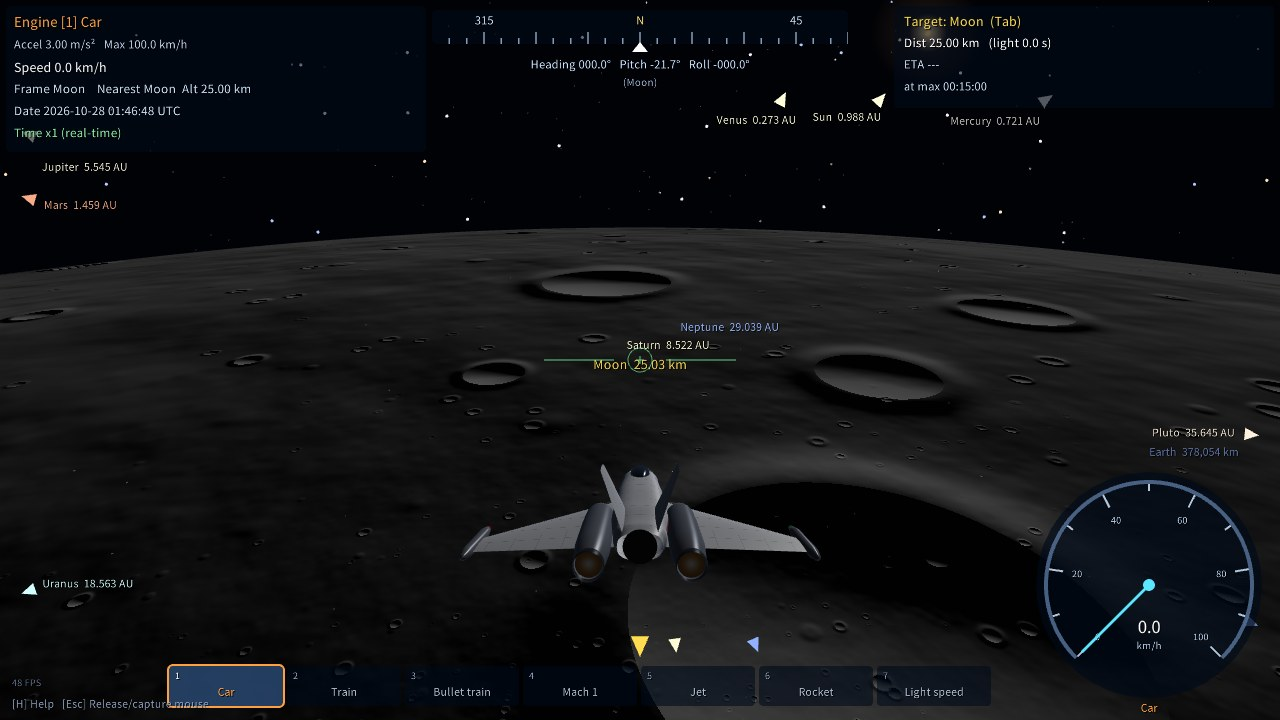
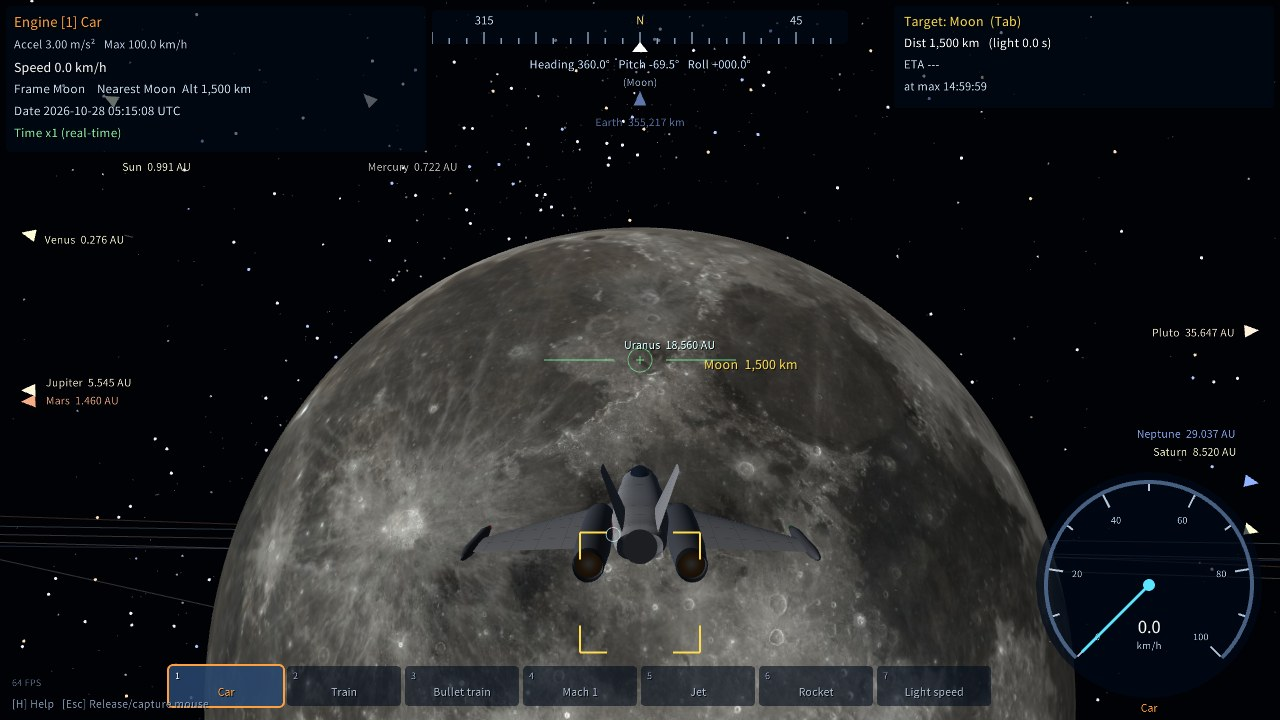
Place moons at their real positions; refresh screenshots
- Orbit planes from JPL mean elements; in-plane positions fitted to JPL
  Horizons for 1980-2070 (tools/fit_moon_orbits.py), incl. Mimas libration
- All moons rotate synchronously, facing their planet; fix Iapetus's
  dark leading hemisphere
- Brighter copper glow during lunar eclipses
- New README screenshots: Moon, eclipses, Saturn ring shadow

diff --git a/tools/fit_moon_orbits.py b/tools/fit_moon_orbits.py
@@ -1,0 +1,139 @@
+#!/usr/bin/env python3
+"""衛星の公転位相を JPL Horizons に合わせる（src/solar_data.h の JPL 表の phase / P を出力する）。
+
+軌道面は JPL の平均軌道要素（https://ssd.jpl.nasa.gov/sats/elem/ の Laplace 面・傾斜角・昇交点）を使い、
+面内の角度 u(t) = u0 + 360 t / P + A sin(2π t / T) + B cos(2π t / T)（t: J2000 からの日数）を
+1980〜2070 年の Horizons の位置に最小二乗で合わせる。
+  - u0: J2000 での角度, P: 平均の公転周期（日）
+  - A, B: ミマスとテティスの共鳴による秤動（周期 T = 70.56 年。ミマスで振幅 約 44°）
+円軌道の近似なので、離心率や軌道面の歳差による数度以内のずれは残る。
+
+使い方: python3 tools/fit_moon_orbits.py
+"""
+import json
+import math
+import re
+import urllib.parse
+import urllib.request
+
+D = math.radians
+UA = "SolarSystemVoyager-orbit-fit/1.0 (https://github.com/hubstacksea/Solar-System-Simulator)"
+
+# 名前, Horizons ID, 母天体 ID, 傾斜角, 昇交点, 基準面の極 RA/Dec（None: 母天体の赤道面）, 周期の目安（日）
+MOONS = [
+    ("Phobos", 401, 499, 1.1, 169.2, (317.7, 52.9), 0.31891),
+    ("Deimos", 402, 499, 1.8, 54.3, (316.6, 53.5), 1.26244),
+    ("Io", 501, 599, 0.0, 0.0, (268.1, 64.5), 1.769138),
+    ("Europa", 502, 599, 0.5, 184.0, (268.1, 64.5), 3.551181),
+    ("Ganymede", 503, 599, 0.2, 58.5, (268.2, 64.6), 7.154553),
+    ("Callisto", 504, 599, 0.3, 309.1, (268.7, 64.8), 16.689018),
+    ("Mimas", 601, 699, 1.6, 66.2, (40.6, 83.5), 0.942422),
+    ("Enceladus", 602, 699, 0.0, 0.0, (40.6, 83.5), 1.370218),
+    ("Tethys", 603, 699, 1.1, 273.0, (40.6, 83.5), 1.887802),
+    ("Dione", 604, 699, 0.0, 0.0, (40.6, 83.5), 2.736915),
+    ("Rhea", 605, 699, 0.3, 133.7, (40.6, 83.5), 4.517503),
+    ("Titan", 606, 699, 0.3, 78.6, (36.4, 84.0), 15.945),
+    ("Iapetus", 608, 699, 7.6, 86.5, (288.7, 78.9), 79.3215),
+    # 天王星は逆行自転なので、衛星の公転の向きに合わせて IAU の北極と反対側の極を基準にする
+    ("Miranda", 705, 799, 4.4, 100.9, (77.31, 15.18), 1.413479),
+    ("Ariel", 701, 799, 0.0, 0.0, (77.31, 15.18), 2.520379),
+    ("Umbriel", 702, 799, 0.1, 174.8, (77.31, 15.18), 4.144177),
+    ("Titania", 703, 799, 0.1, 29.5, (77.31, 15.18), 8.705872),
+    ("Oberon", 704, 799, 0.1, 76.8, (77.31, 15.18), 13.463239),
+    ("Triton", 801, 899, 157.3, 177.7, None, 5.876854),
+    ("Charon", 901, 999, 0.0, 0.0, None, 6.387230),
+]
+# 母天体の自転軸（solar_data.h と同じ IAU の値）
+PLANET_POLE = {899: (299.36, 43.46), 999: (132.99, -6.16)}
+LIBRATION = {"Mimas", "Tethys"}
+T_LIB = 70.56 * 365.25
+
+J2000 = 2451545.0
+SAMPLES = [2444239.5 + k * 1150.0 for k in range(29)]   # 1980〜2070 年
+
+
+def equ(ra, dec):
+    return (math.cos(D(dec)) * math.cos(D(ra)), math.cos(D(dec)) * math.sin(D(ra)), math.sin(D(dec)))
+
+
+def cross(a, b):
+    return (a[1] * b[2] - a[2] * b[1], a[2] * b[0] - a[0] * b[2], a[0] * b[1] - a[1] * b[0])
+
+
+def norm(a):
+    l = math.sqrt(sum(x * x for x in a))
+    return tuple(x / l for x in a)
+
+
+def lin(*terms):
+    return tuple(sum(k * v[i] for k, v in terms) for i in range(3))
+
+
+def dot(a, b):
+    return sum(x * y for x, y in zip(a, b))
+
+
+def basis(m):
+    """solar_data.h / main.cpp と同じ軌道面の基底 (oN, oQ)。ICRF 赤道座標"""
+    _, _, parent, inc, node, pole, _ = m
+    ref = equ(*(pole if pole else PLANET_POLE[parent]))
+    e1 = norm(cross((0, 0, 1), ref))
+    e2 = cross(ref, e1)
+    n = lin((math.cos(D(node)), e1), (math.sin(D(node)), e2))
+    q = lin((math.cos(D(inc)), cross(ref, n)), (math.sin(D(inc)), ref))
+    return n, q
+
+
+def horizons(code, center, jds):
+    q = urllib.parse.urlencode({
+        "format": "json", "COMMAND": "'%d'" % code, "CENTER": "'500@%d'" % center, "EPHEM_TYPE": "VECTORS",
+        "TLIST": " ".join("'%s'" % j for j in jds), "REF_PLANE": "FRAME", "REF_SYSTEM": "ICRF",
+        "OUT_UNITS": "KM-S", "VEC_TABLE": "1", "CSV_FORMAT": "YES", "OBJ_DATA": "NO"})
+    req = urllib.request.Request("https://ssd.jpl.nasa.gov/api/horizons.api?" + q, headers={"User-Agent": UA})
+    res = json.load(urllib.request.urlopen(req, timeout=60))["result"]
+    body = re.search(r"\$\$SOE\s*(.*?)\$\$EOE", res, re.S).group(1)
+    out = []
+    for line in body.strip().splitlines():
+        f = [x.strip() for x in line.split(",")]
+        out.append((float(f[2]), float(f[3]), float(f[4])))
+    return out
+
+
+def solve(rows, ys):
+    """最小二乗（正規方程式をガウスの消去法で解く）"""
+    n = len(rows[0])
+    a = [[sum(r[i] * r[j] for r in rows) for j in range(n)] + [sum(r[i] * y for r, y in zip(rows, ys))] for i in range(n)]
+    for i in range(n):
+        piv = max(range(i, n), key=lambda k: abs(a[k][i]))
+        a[i], a[piv] = a[piv], a[i]
+        for k in range(n):
+            if k != i:
+                f = a[k][i] / a[i][i]
+                a[k] = [x - f * y for x, y in zip(a[k], a[i])]
+    return [a[i][n] / a[i][i] for i in range(n)]
+
+
+def main():
+    print("// tools/fit_moon_orbits.py の出力: 名前, u0 [deg], P [日], 秤動 A, B [deg]")
+    for m in MOONS:
+        name, code, parent, _, _, _, p0 = m
+        n, q = basis(m)
+        pos = horizons(code, parent, SAMPLES)
+        lib = name in LIBRATION
+        rows, ys = [], []
+        for jd, r in zip(SAMPLES, pos):
+            t = jd - J2000
+            u = math.degrees(math.atan2(dot(r, q), dot(r, n)))
+            pred = 360.0 / p0 * t
+            ys.append(pred + (u - pred + 180) % 360 - 180)   # 目安の周期で展開した連続な角度
+            w = 2 * math.pi * t / T_LIB
+            rows.append([1.0, t] + ([math.sin(w), math.cos(w)] if lib else []))
+        c = solve(rows, ys)
+        u0, rate = c[0], c[1]
+        la, lb = (c[2], c[3]) if lib else (0.0, 0.0)
+        res = max(abs(y - sum(k * x for k, x in zip(c, r))) for r, y in zip(rows, ys))
+        print('    {"%s", %.3f, %.7f, %.2f, %.2f},  // 最大残差 %.1f°' % (name, u0 % 360, 360.0 / rate, la, lb, res))
+
+
+if __name__ == "__main__":
+    main()

diff --git a/src/solar_data.h b/src/solar_data.h
@@ -1,7 +1,7 @@
 // 太陽系天体データ（実寸）
 //  - 半径: km（赤道半径）、扁平率
 //  - 惑星軌道: JPL "Approximate Positions of the Planets" J2000 平均軌道要素
-//  - 衛星軌道: 円軌道近似（軌道長半径・公転周期・母天体赤道面に対する傾斜角）
+//  - 衛星軌道: 月は簡易月位置公式、ほかは JPL の平均軌道要素（J2000）による円軌道近似
 //  - 自転軸: IAU 自転軸の赤経・赤緯
 #pragma once
 #include <cmath>
@@ -37,6 +37,11 @@ struct BodyDef {
     double moonIncl = 0;    // 傾斜角 deg（eclipticRef なら黄道面基準、それ以外は母天体赤道面基準）
     double moonNode = 0, moonPhase = 0;
     bool eclipticRef = false;
+    // JPL の軌道面を使う衛星: 基準面の極（NaN なら母天体の赤道面）。moonNode は基準面が ICRF 赤道と交わる
+    // 昇交点から測った昇交点経度、moonPhase は J2000 での面内の角度、libA / libB は秤動の振幅 deg
+    bool jpl = false;
+    double framePoleRA = 0, framePoleDec = 0;
+    double libA = 0, libB = 0;
 
     bool inheritPole = false;  // 母天体の自転軸を使う
     double poleRA = 0, poleDec = 90;
@@ -187,11 +192,47 @@ inline std::vector<BodyDef> BuildSolarSystem() {
     v.push_back(MakeMoon("カロン", "Charon", B_PLUTO, 606.0, 1.586e21, 19591, 6.387230, 0.0,
                          KIND_ROCKY, {0.62f, 0.60f, 0.58f}, {0.40f, 0.36f, 0.34f}));
 
-    // 衛星の昇交点・初期位相を決定的に散らす
-    for (size_t i = 0; i < v.size(); i++) {
-        if (v[i].parent > 0) {
-            v[i].moonNode = std::fmod(i * 73.0, 360.0);
-            v[i].moonPhase = std::fmod(i * 137.5, 360.0);
+    // 衛星の軌道（月以外）。軌道面は JPL Solar System Dynamics の平均軌道要素（https://ssd.jpl.nasa.gov/sats/elem/、
+    // J2000）の基準面・傾斜角・昇交点。面内の角度 u = u0 + 360 t / P + A sin(2πt/T) + B cos(2πt/T) は
+    // tools/fit_moon_orbits.py で JPL Horizons の 1980〜2070 年の位置に合わせた値（行末はその最大誤差）。
+    // A, B はミマスとテティスの共鳴による秤動（T = 70.56 年）。円軌道の近似
+    // 基準面の極: 赤経・赤緯（EQ: 母天体の赤道面）。天王星は逆行自転なので公転の向きに合わせて南側の極を使う
+    static const double EQ = NAN;
+    static const struct { const char* en; double a, i, node, ra, dec, u0, P, libA, libB; } ORBITS[] = {
+        {"Phobos", 9375, 1.1, 169.2, 317.7, 52.9, 46.087, 0.3189101, 0.00, 0.00},  // ±2.9°
+        {"Deimos", 23457, 1.8, 54.3, 316.6, 53.5, 205.081, 1.2624408, 0.00, 0.00},  // ±0.4°
+        {"Io", 421800, 0.0, 0.0, 268.1, 64.5, 19.906, 1.7691378, 0.00, 0.00},  // ±0.5°
+        {"Europa", 671100, 0.5, 184.0, 268.1, 64.5, 30.397, 3.5511808, 0.00, 0.00},  // ±1.1°
+        {"Ganymede", 1070400, 0.2, 58.5, 268.2, 64.6, 163.144, 7.1545531, 0.00, 0.00},  // ±0.3°
+        {"Callisto", 1882700, 0.3, 309.1, 268.7, 64.8, 131.402, 16.6890236, 0.00, 0.00},  // ±0.9°
+        {"Mimas", 186000, 1.6, 66.2, 40.6, 83.5, 93.678, 0.9424217, -32.04, 28.42},  // ±2.6°
+        {"Enceladus", 238400, 0.0, 0.0, 40.6, 83.5, 182.278, 1.3702181, 0.00, 0.00},  // ±0.9°
+        {"Tethys", 295000, 1.1, 273.0, 40.6, 83.5, 275.377, 1.8878025, 1.61, -1.33},  // ±0.0°
+        {"Dione", 377700, 0.0, 0.0, 40.6, 83.5, 176.932, 2.7369156, 0.00, 0.00},  // ±0.3°
+        {"Rhea", 527200, 0.3, 133.7, 40.6, 83.5, 278.466, 4.5175027, 0.00, 0.00},  // ±0.1°
+        {"Titan", 1221900, 0.3, 78.6, 36.4, 84.0, 293.055, 15.9454360, 0.00, 0.00},  // ±3.5°
+        {"Iapetus", 3561700, 7.6, 86.5, 288.7, 78.9, 113.793, 79.3308625, 0.00, 0.00},  // ±2.5°
+        {"Miranda", 129846, 4.4, 100.9, 77.31, 15.18, 227.820, 1.4134794, 0.00, 0.00},  // ±2.0°
+        {"Ariel", 190929, 0.0, 0.0, 77.31, 15.18, 203.126, 2.5203792, 0.00, 0.00},  // ±0.2°
+        {"Umbriel", 265986, 0.1, 174.8, 77.31, 15.18, 76.458, 4.1441771, 0.00, 0.00},  // ±0.5°
+        {"Titania", 436298, 0.1, 29.5, 77.31, 15.18, 252.124, 8.7058699, 0.00, 0.00},  // ±0.3°
+        {"Oberon", 583511, 0.1, 76.8, 77.31, 15.18, 275.762, 13.4632373, 0.00, 0.00},  // ±0.3°
+        {"Triton", 354800, 157.3, 177.7, EQ, EQ, 58.444, 5.8768438, 0.00, 0.00},  // ±0.7°
+        {"Charon", 19600, 0.0, 0.0, EQ, EQ, 304.119, 6.3872221, 0.00, 0.00},  // ±0.0°
+    };
+    for (BodyDef& d : v) {
+        for (const auto& o : ORBITS) {
+            if (std::strcmp(d.en, o.en) != 0) continue;
+            d.jpl = true;
+            d.moonA = o.a;
+            d.moonIncl = o.i;
+            d.moonNode = o.node;
+            d.framePoleRA = o.ra;
+            d.framePoleDec = o.dec;
+            d.moonPhase = o.u0;
+            d.moonPeriod = o.P;
+            d.libA = o.libA;
+            d.libB = o.libB;
         }
     }
     static const struct { const char* en; int style; } STYLES[] = {

diff --git a/src/main.cpp b/src/main.cpp
@@ -293,6 +293,12 @@ static std::vector<Body> InitBodies() {
             V3 e1, e2;
             EquatorBasis(ref, &e1, &e2);
             e2 = Cross(ref, e1);
+            if (d.jpl) {
+                // JPL の基準面（Laplace 面か母天体の赤道面）。昇交点経度は基準面と ICRF 赤道の昇交点から測る
+                if (!std::isnan(d.framePoleRA)) ref = EquToRender(d.framePoleRA, d.framePoleDec);
+                e1 = Norm(Cross(EquToRender(0, 90), ref));
+                e2 = Cross(ref, e1);
+            }
             V3 N = e1 * std::cos(d.moonNode * DEG) + e2 * std::sin(d.moonNode * DEG);
             V3 M = Cross(ref, N);
             b.oN = N;
@@ -324,12 +330,16 @@ static void UpdateBodies(std::vector<Body>& B, double t) {
             }
         } else {
             double th = d.moonPhase * DEG + 2 * PI * t / d.moonPeriod;
+            if (d.libA != 0 || d.libB != 0) {   // ミマス・テティスの秤動（周期 70.56 年）
+                double w = 2 * PI * t / (70.56 * 365.25);
+                th += (d.libA * std::sin(w) + d.libB * std::cos(w)) * DEG;
+            }
             b.pos = B[d.parent].pos + (b.oN * std::cos(th) + b.oQ * std::sin(th)) * d.moonA;
         }
         double rp = d.rotPeriod == 0 ? d.moonPeriod : d.rotPeriod;
         b.spin = std::fmod(d.spin0 * DEG + 2 * PI * t / rp, 2 * PI);
-        if (&b == &B[B_MOON]) {
-            // 自転は公転と同期: 経度 0°（本体 X 軸）を常に地球へ向ける
+        if (d.parent > 0 && d.rotPeriod == 0) {
+            // 衛星の自転は公転と同期: 経度 0°（本体 X 軸）を常に母天体へ向ける
             V3 u = B[d.parent].pos - b.pos;
             b.spin = std::atan2(-Dot(u, b.ez), Dot(u, b.ex));
         }
@@ -727,6 +737,7 @@ struct Options {
     double warpAnimAt = -1;  // 指定秒にワープ演出を開始（確認用）
     bool saveBookmark = false;  // 起動直後の位置をブックマーク（確認用）
     int gotoBookmark = -1;      // 1 秒後にブックマークへワープ（確認用、1〜）
+    bool dumpMoons = false;     // 衛星の母天体からの相対位置を出力して終了（確認用）
     double timeScale = 1;
     const char* lang = nullptr;  // "ja" / "en"
     int quality = -1;            // 0〜2（確認用）
@@ -742,6 +753,7 @@ static Options ParseArgs(int argc, char** argv) {
         else if (a == "--warp") o.warp = true;
         else if (a == "--warp-anim") o.warpAnimAt = atof(next());
         else if (a == "--save-bookmark") o.saveBookmark = true;
+        else if (a == "--dump-moons") o.dumpMoons = true;
         else if (a == "--goto-bookmark") o.gotoBookmark = atoi(next());
         else if (a == "--land") o.land = true;
         else if (a == "--face") o.face = true;
@@ -2215,6 +2227,19 @@ static void DrawHUD(App& app) {
 // ---------------------------------------------------------------- main
 int main(int argc, char** argv) {
     Options opt = ParseArgs(argc, argv);
+    if (opt.dumpMoons) {
+        // 描画座標（黄道系を並べ替えたもの）のまま、時刻 = 現在 + --hours
+        std::vector<Body> B = InitBodies();
+        double t = (std::time(nullptr) - J2000_UNIX) / 86400.0 + opt.hours / 24.0;
+        UpdateBodies(B, t);
+        printf("t %.6f\n", t);
+        for (const Body& b : B)
+            if (b.d.parent > 0) {
+                V3 r = b.pos - B[b.d.parent].pos;
+                printf("%s %.3f %.3f %.3f\n", b.d.en, r.x, r.y, r.z);
+            }
+        return 0;
+    }
     LoadSettings();
     SetConfigFlags(FLAG_MSAA_4X_HINT | FLAG_WINDOW_RESIZABLE | FLAG_VSYNC_HINT);
     InitWindow(1280, 720, "Solar System Voyager");

diff --git a/src/shaders.h b/src/shaders.h
@@ -234,8 +234,8 @@ vec4 rocky(vec3 p, int style, vec3 o, out vec3 base) {
     } else if (style == 7) {   // カリスト: 暗い表面に明るいクレーター
         base = mix(c2, c1, tone * 0.45);
         g_ray *= 2.0;
-    } else if (style == 9) {   // イアペトゥス: 先行半球が真っ黒な二色の衛星
-        float dark = smoothstep(-0.12, 0.12, p.x + fbmL(p, 5.0, 5, 0.5, o) * 0.15);
+    } else if (style == 9) {   // イアペトゥス: 先行半球（西経 90°、本体 +Z 側）が真っ黒な二色の衛星
+        float dark = smoothstep(-0.12, 0.12, p.z + fbmL(p, 5.0, 5, 0.5, o) * 0.15);
         base = mix(c1, c2, dark);
     } else if (style == 10) {  // 冥王星: 明るいハートと赤黒い赤道帯
         float band = (1.0 - smoothstep(0.0, 0.35, abs(p.y + 0.05))) * smoothstep(-0.15, 0.2, macro + 0.15);
@@ -598,7 +598,7 @@ void main() {
     }
 
     // 月食: 地球の大気で曲げられた赤い光がわずかに届く
-    col += base * vec3(0.16, 0.05, 0.02) * eclRed * max(ndlG, 0.0);
+    col += base * vec3(0.32, 0.10, 0.04) * eclRed * max(ndlG, 0.0);
     float rim = pow(1.0 - mu, 3.0) * params.w;
     col += atmColor * rim * clamp(ndlG + 0.25, 0.0, 1.0);
     finalColor = vec4(col, 1.0);

diff --git a/README.en.md b/README.en.md
@@ -12,9 +12,10 @@ Body positions are computed from the PC clock (UTC); at 1x time scale they orbit
 
 | | |
 |---|---|
-| ![Saturn and its rings](docs/screenshots/saturn.jpg) Saturn and its rings | ![City lights of Europe at night](docs/screenshots/earth_night.jpg) City lights of Europe at night |
-| ![Jupiter](docs/screenshots/jupiter.jpg) Jupiter | ![Low flight over the Moon](docs/screenshots/moon.jpg) Low flight over the Moon |
-| ![Warp](docs/screenshots/warp.jpg) Warp effect | |
+| ![Saturn and its rings](docs/screenshots/saturn.jpg) Saturn and its rings (with the rings' shadow on the planet) | ![City lights of Europe at night](docs/screenshots/earth_night.jpg) City lights of Europe at night |
+| ![The Moon's near side](docs/screenshots/moon.jpg) The Moon's near side (real NASA data) | ![Low flight near Tycho](docs/screenshots/moon_surface.jpg) Low flight near Tycho |
+| ![Solar eclipse of 2 August 2027](docs/screenshots/solar_eclipse.jpg) Solar eclipse of 2 August 2027 (the Moon's shadow over North Africa) | ![Total lunar eclipse of 7 September 2025](docs/screenshots/lunar_eclipse.jpg) Total lunar eclipse of 7 September 2025 |
+| ![Jupiter](docs/screenshots/jupiter.jpg) Jupiter | ![Warp](docs/screenshots/warp.jpg) Warp effect |
 
 ## Building
 
@@ -143,7 +144,7 @@ The values can be changed in the `ENGINES` table in `src/main.cpp`. Switching to
 
 ## How it works
 
-- **Body positions**: planets are computed from JPL J2000 mean orbital elements via Kepler's equation (accurate to a few arcminutes). The Moon uses a low-precision lunar ephemeris (about 0.3°), so its real position and phase are reproduced, and it always keeps the same face toward Earth. Other moons use circular orbits with real radii, periods and inclinations, but their phases do not match their actual positions
+- **Body positions**: planets are computed from JPL J2000 mean orbital elements via Kepler's equation (accurate to a few arcminutes). The Moon uses a low-precision lunar ephemeris (about 0.3°), so its real position and phase are reproduced, and it always keeps the same face toward Earth. Other moons are placed on circular orbits in the orbital planes from JPL's mean orbital elements, with their positions fitted to JPL Horizons for 1980–2070 (most within 1°, at most a few degrees; Mimas includes its ±43° libration from the resonance with Tethys). Shadows of Jupiter's moons fall on Jupiter at nearly the real times
 - **Surfaces**: everything except Earth and the Moon is generated procedurally in shaders. Finer patterns and relief (craters, mountains) appear as you get closer, so surfaces stay detailed even near the ground. Distinct features include Martian polar caps, Io's volcanoes, Europa's lineae, Jupiter's Great Red Spot, Saturn's north polar hexagon and Pluto's heart
 - **Earth**: built from real NASA data — continents, coastlines, elevation (relief shading), ocean depth (shallow-water color), sea ice and city lights at night (about 10 km resolution, with finer detail filled in procedurally). Its rotation follows Greenwich sidereal time, so the regions in daylight and the lit cities at night match the PC clock. Clouds are procedural
 - **Moon**: real NASA data (LRO color and LOLA elevation, about 3–5 km resolution). Maria, craters and ray systems are where they really are; smaller craters are filled in procedurally
